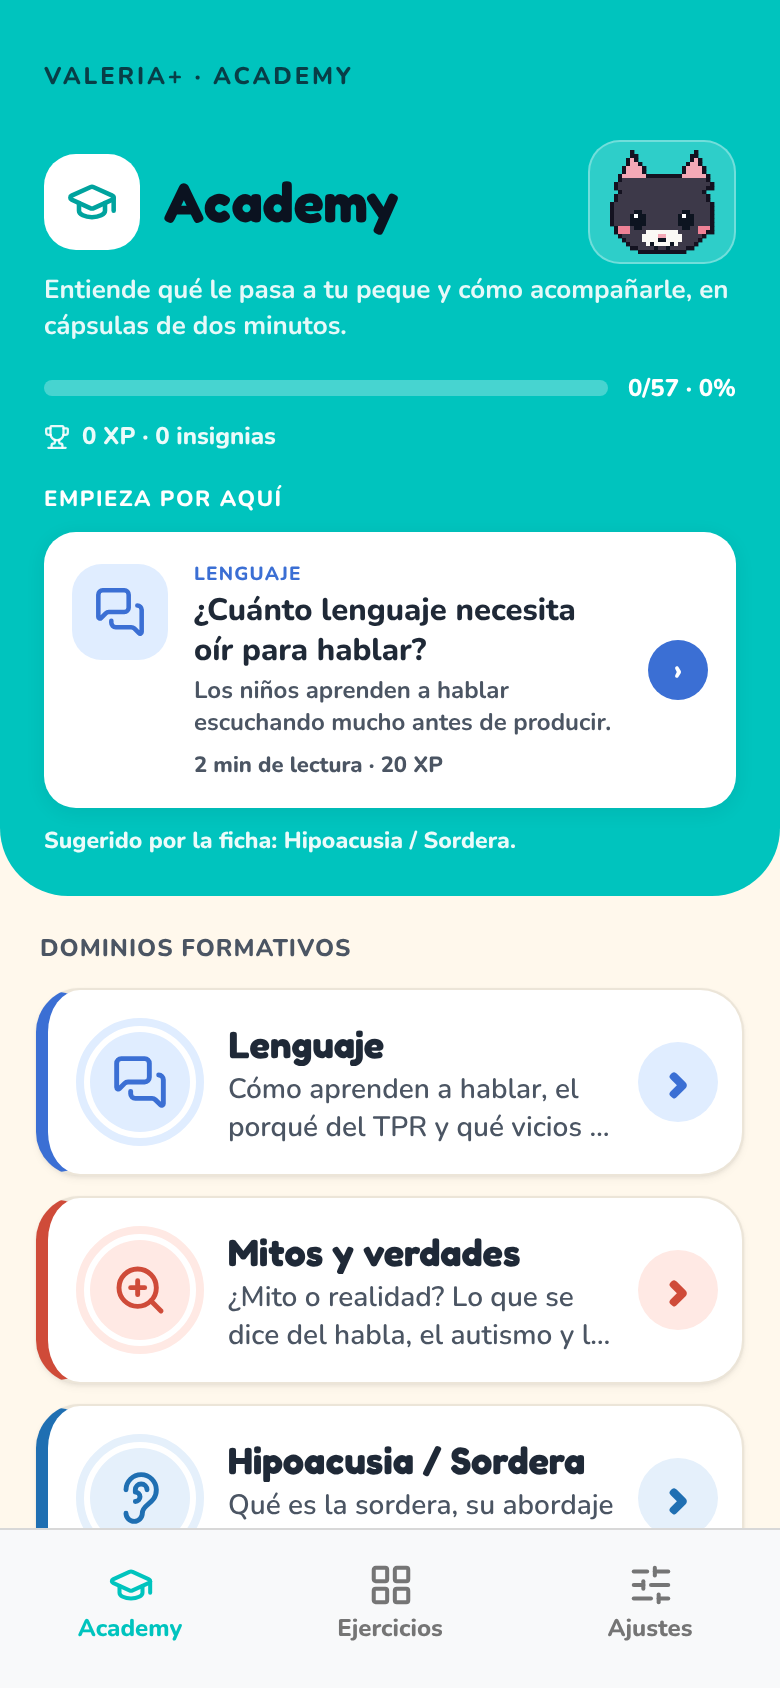
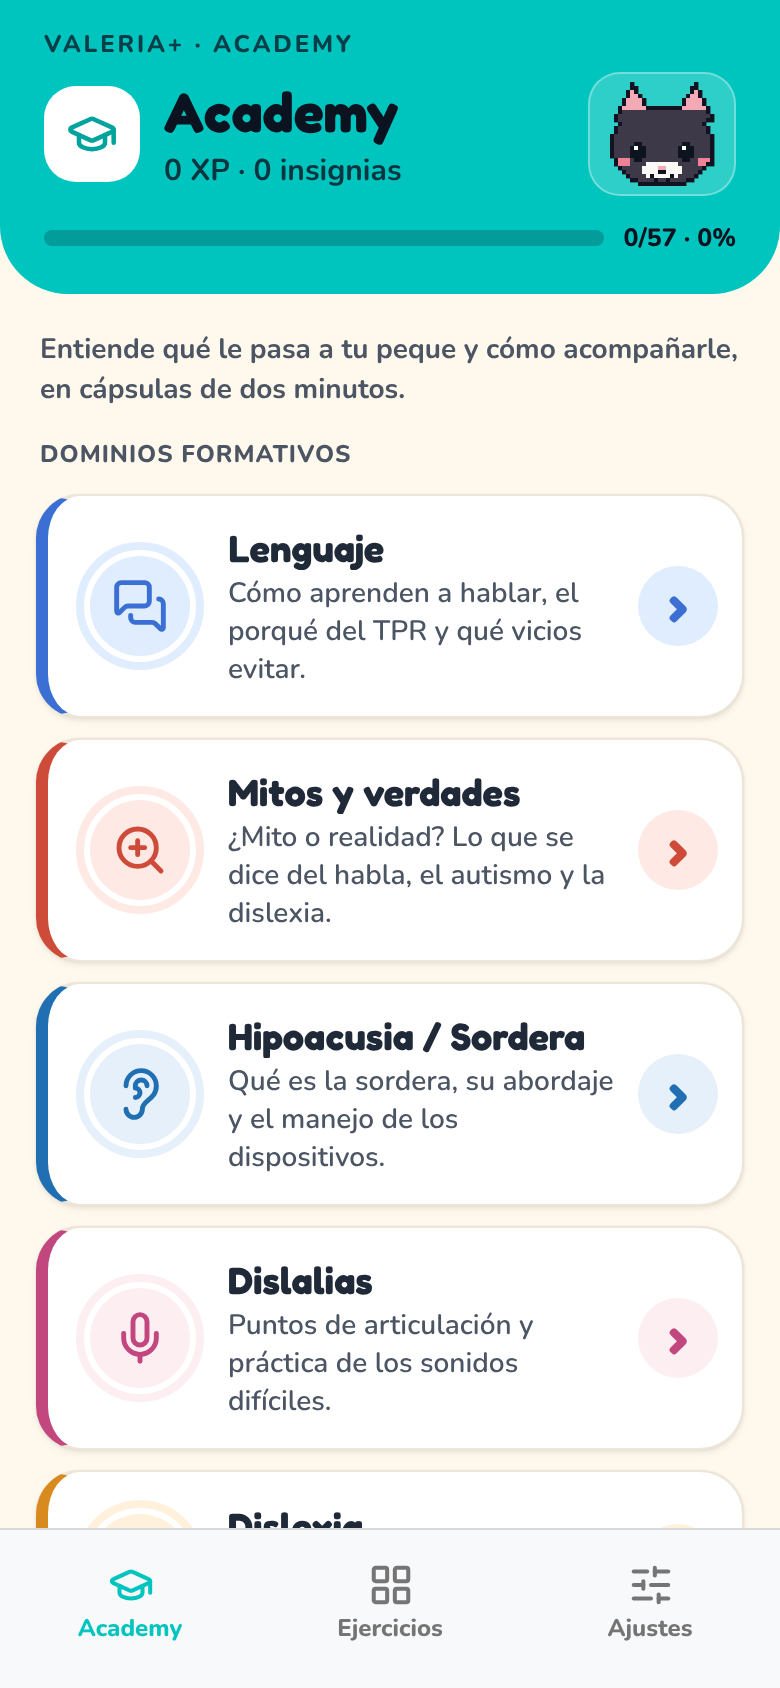
Tarjetas de bloque sin texto cortado; capturador y receta de capturas al día
- ValeriaBlockTile: el título admite 4 líneas y la descripción 6, para que
  «Lengua de Signos Española (LSE)» y los resúmenes no se corten a 320 px.
- capture-screenshots.js: textos actuales de la selección de perfil, la ficha
  y el hub de Ejercicios (llega hasta el paso 05; el resto sigue desfasado).
- CLAUDE.md: la receta pide react-dom 19.3.0, react-refresh y el Chromium real.
- Manual: captura 27 con la cabecera nueva de Academy.

Claude-Session: https://claude.ai/code/session_01KaBg35qAMt9joUjhuHmGDD

diff --git a/docs/capture-screenshots.js b/docs/capture-screenshots.js
@@ -2,7 +2,7 @@
 //
 // Uso:
 //   1. npm install --no-save --legacy-peer-deps \
-//        react-native-web@~0.21.0 react-dom@19.1.0 @expo/metro-runtime@~6.1.1
+//        react-native-web@~0.21.0 react-dom@19.3.0 @expo/metro-runtime@~6.1.1 react-refresh
 //   2. npx expo start --web --port 8081          (en otra terminal)
 //   3. node docs/capture-screenshots.js          (requiere playwright instalado)
 //
@@ -98,14 +98,14 @@ const pause = (page, ms) => page.waitForTimeout(ms);
   // pantalla «¿quién va a practicar hoy?». El script se escribió antes de que
   // esa pantalla existiera y por eso moría aquí esperando un campo de texto que
   // no llega. Se pide ficha nueva, que es lo que ilustra esta captura.
-  const nuevoPaciente = page.getByText('Paciente nuevo', { exact: true });
+  const nuevoPaciente = page.getByText('Perfil nuevo', { exact: true });
   if (await nuevoPaciente.count()) {
     await nuevoPaciente.click();
     await pause(page, 800);
   }
-  await page.getByPlaceholder('Nombre del paciente').waitFor();
+  await page.getByPlaceholder('Nombre del niño').waitFor();
   await pause(page, 400);
-  await page.getByPlaceholder('Nombre del paciente').fill('Lucía Martínez');
+  await page.getByPlaceholder('Nombre del niño').fill('Lucía Martínez');
   await page.getByPlaceholder('DD / MM / AAAA').fill('12/04/2019');
   await page.getByPlaceholder('HC-…').fill('HC-2093');
   await page.getByText('Niña', { exact: true }).click();
@@ -141,7 +141,7 @@ const pause = (page, ms) => page.waitForTimeout(ms);
   await page.getByText('valeria+ · academy', { exact: true }).waitFor({ timeout: 120000 });
   await pause(page, 700);
   await page.getByText('Ejercicios', { exact: true }).click();
-  await page.getByText('Selección de Ejercicios', { exact: true }).waitFor({ timeout: 120000 });
+  await page.getByText('Elige qué quieres practicar hoy', { exact: true }).waitFor({ timeout: 120000 });
   await pause(page, 700);
   await shot(page, '05-hub-bloques');
   console.log('05 hub ✓');
@@ -156,11 +156,11 @@ const pause = (page, ms) => page.waitForTimeout(ms);
 
   // ---- Helper para volver al hub ----
   const goHub = async () => {
-    await page.getByText('Selección de Ejercicios', { exact: true }).waitFor().catch(() => {});
+    await page.getByText('Elige qué quieres practicar hoy', { exact: true }).waitFor().catch(() => {});
   };
 
   // ===================== PARES MÍNIMOS =====================
-  await page.getByText('Pares Mínimos', { exact: true }).click();
+  await page.getByText('Pares de sonidos', { exact: true }).click();
   await page.getByText('BANCO DE CONTRASTES', { exact: true }).waitFor();
   await pause(page, 600);
   await shot(page, '06-pares-banco');           // 06 · banco de contrastes
@@ -200,22 +200,22 @@ const pause = (page, ms) => page.waitForTimeout(ms);
     await page.getByText('Comenzar', { exact: true }).click();
     await page.getByText('Continuar', { exact: true }).first().waitFor();
     await page.getByText('Continuar', { exact: true }).first().click();
-    await page.getByText('Ya tengo un paciente', { exact: true }).click();
-    await page.getByText('Selecciona un paciente').waitFor();
+    await page.getByText('Ya tengo un perfil', { exact: true }).click();
+    await page.getByText('Selecciona un perfil').waitFor();
     await pause(page, 400);
     await page.getByText('Lucía Martínez').click();
     // La app abre por la formación: elegir paciente deja en Academy, y al hub
     // de bloques se entra por la pestaña «Ejercicios».
     await page.getByText('valeria+ · academy', { exact: true }).waitFor({ timeout: 120000 });
     await page.getByText('Ejercicios', { exact: true }).click();
-    await page.getByText('Selección de Ejercicios', { exact: true }).waitFor({ timeout: 120000 });
+    await page.getByText('Elige qué quieres practicar hoy', { exact: true }).waitFor({ timeout: 120000 });
     await pause(page, 400);
   };
 
   // ===================== EXPANSIÓN SEMÁNTICA =====================
   await openHubFresh();
   await page.getByText('Expansión Semántica', { exact: true }).click();
-  await page.getByText('ESCENARIOS DIARIOS', { exact: true }).waitFor();
+  await page.getByLabel(/Practicar escenario Rutina de mañana/).waitFor();
   await pause(page, 600);
   await shot(page, '10-expansion-escenarios');  // 10 · lista de escenarios
   console.log('10 expansion escenarios ✓');
@@ -229,7 +229,7 @@ const pause = (page, ms) => page.waitForTimeout(ms);
 
   // Iniciar un escenario para captura de juego
   await page.getByText('Escenarios', { exact: true }).click();
-  await page.getByText('ESCENARIOS DIARIOS', { exact: true }).waitFor();
+  await page.getByLabel(/Practicar escenario Rutina de mañana/).waitFor();
   await pause(page, 300);
   await page.getByLabel(/Practicar escenario Rutina de mañana/).click();
   // Los escenarios abren primero una PREPARACIÓN («qué vais a hacer» + material)
@@ -275,15 +275,15 @@ const pause = (page, ms) => page.waitForTimeout(ms);
   await page.getByText('Comenzar', { exact: true }).click();
   await page.getByText('Continuar', { exact: true }).first().waitFor();
   await page.getByText('Continuar', { exact: true }).first().click();
-  await page.getByText('Ya tengo un paciente', { exact: true }).click();
-  await page.getByText('Selecciona un paciente').waitFor();
+  await page.getByText('Ya tengo un perfil', { exact: true }).click();
+  await page.getByText('Selecciona un perfil').waitFor();
   await pause(page, 500);
   await shot(page, '16-pacientes');             // 16 · selección de paciente
   console.log('16 pacientes ✓');
   await page.getByText('Lucía Martínez').click();
   await page.getByText('valeria+ · academy', { exact: true }).waitFor({ timeout: 120000 });
   await page.getByText('Ejercicios', { exact: true }).click();
-  await page.getByText('Selección de Ejercicios', { exact: true }).waitFor({ timeout: 120000 });
+  await page.getByText('Elige qué quieres practicar hoy', { exact: true }).waitFor({ timeout: 120000 });
   await pause(page, 400);
   await page.getByText('Audición', { exact: true }).click();
   await page.getByText('PROTOCOLO ACOPROS · AUDICIÓN', { exact: true }).waitFor();
@@ -424,7 +424,7 @@ const pause = (page, ms) => page.waitForTimeout(ms);
   await page.getByLabel(/^Academy\./).click();
   await page.getByText('DOMINIOS FORMATIVOS', { exact: true }).waitFor({ timeout: 60000 });
   await pause(page, 900);
-  await shot(page, '27-academy-hub');            // 27 · dominios + feed de prioridad
+  await shot(page, '27-academy-hub');            // 27 · cabecera corta + dominios
   console.log('27 academy hub ✓');
 
   // Lenguaje es el primer dominio y el más poblado; la tarjeta cabe entera en
@@ -468,7 +468,7 @@ const pause = (page, ms) => page.waitForTimeout(ms);
   // Aparece en la pantalla de juego de Pares Mínimos; desplegarlo para ver los
   // tres módulos (ruido babble, gata distractora y quiebre pragmático).
   await openHubFresh();
-  await page.getByText('Pares Mínimos', { exact: true }).click();
+  await page.getByText('Pares de sonidos', { exact: true }).click();
   await page.getByText('BANCO DE CONTRASTES', { exact: true }).waitFor();
   await pause(page, 500);
   await page.getByLabel(/Practicar el par rana/).click();

diff --git a/src/ValeriaBlockTile.tsx b/src/ValeriaBlockTile.tsx
@@ -59,8 +59,8 @@ export const ValeriaBlockTile: React.FC<ValeriaBlockTileProps> = React.memo(({
           </ProgressRing>
         </View>
         <View style={s.body}>
-          <Text style={s.title} numberOfLines={2}>{title}</Text>
-          {!!description && <Text style={s.desc} numberOfLines={2}>{description}</Text>}
+          <Text style={s.title} numberOfLines={4}>{title}</Text>
+          {!!description && <Text style={s.desc} numberOfLines={6}>{description}</Text>}
         </View>
         <View style={[s.go, { backgroundColor: accentBg }]}>
           <Text style={[s.goGlyph, { color: accentFg }]}>›</Text>

diff --git a/CLAUDE.md b/CLAUDE.md
@@ -526,9 +526,9 @@ El repo trae todo lo necesario y no hay excusa:
 
 ```bash
 npm install --no-save --legacy-peer-deps \
-  react-native-web@~0.21.0 react-dom@19.1.0 @expo/metro-runtime@~6.1.1 playwright
+  react-native-web@~0.21.0 react-dom@19.3.0 @expo/metro-runtime@~6.1.1 react-refresh playwright
 BROWSER=none npx expo start --web --port 8081 --clear
-CHROMIUM_PATH=/opt/pw-browsers/chromium-1194/chrome-linux/chrome \
+CHROMIUM_PATH=/opt/pw-browsers/chromium \
   node docs/capture-screenshots.js
 ```
 
